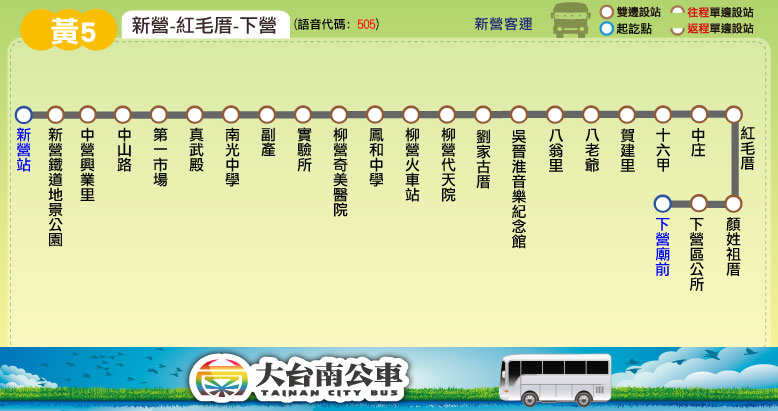
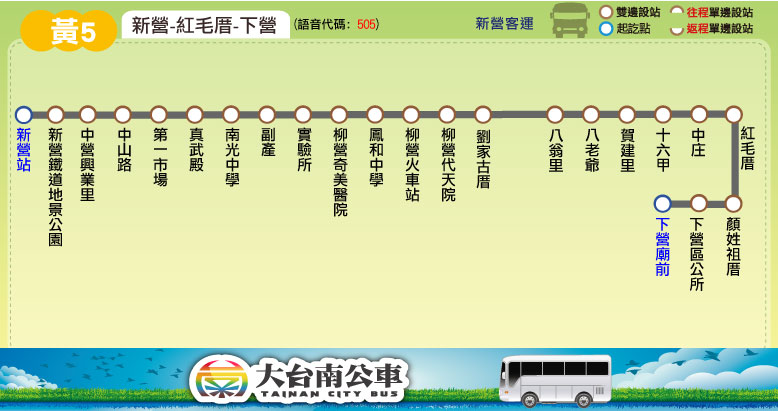
更新時刻表：黃5、黃11-2； 更新票價表：棕1； 新增站位：8041C(增「臺鐵正義站」)、黃11-2(增「岩坑」、「橫路」、「田寮子」)； 裁撤站位：黃5(裁撤「吳晉淮音樂紀念館」)

diff --git a/route/fare_and_time/yellow_5.js b/route/fare_and_time/yellow_5.js
@@ -3,7 +3,7 @@ yellow_5_interval_stop = [ // 2018.11.18 checked
 ["新營站","新營鐵道地景公園","中營興業里","中山路","第一市場","真武殿","南光中學"], // 新營
 ["副產","實驗所"], // 副產
 ["柳營奇美醫院","鳳和中學","柳營火車站","柳營代天院"], // 柳營火車站
-["劉家古厝","吳晉淮音樂紀念館","八翁里","八老爺"], // 八老爺
+["劉家古厝","八翁里","八老爺"], // 八老爺
 ["賀建里","十六甲","中庄"], // 中庄
 ["紅毛厝","顏姓祖厝","下營區公所","下營廟前"] // 下營
 ];
@@ -18,12 +18,17 @@ yellow_5_fare = [
 // format = [time at the start stop] or
 // [time, other] or
 // [time, start_stop, end_stop, other]
-yellow_5_main_stop_name = ["新營站","柳營<br />火車站","吳晉淮音<br />樂紀念館","八老爺","紅毛厝","下營<br />區公所","下營廟前"];
-yellow_5_main_stop_time_consume = [0, 14, 20, 24, 33, 35, 36];
-yellow_5_important_stop = [0, 1, 6]; // 新營站, 柳營火車站, 下營廟前
+yellow_5_main_stop_name = ["新營站","柳營<br />火車站","八老爺","紅毛厝","下營<br />區公所","下營廟前"];
+yellow_5_main_stop_time_consume = [0, 13, 17, 26, 28, 30];
+yellow_5_important_stop = [0, 1, 5]; // 新營站, 柳營火車站, 下營廟前
 var Sinying = 0; // 新營站
 var TRA_Liouying = 1; // 柳營火車站
-var Balaoye = 3; // 八老爺
-var Hongmaocuo = 4; // 紅毛厝
-yellow_5_time_go = [["08:20"],["09:30",['L']],["12:10"],["15:50",['L']],["17:15",['H']]];
-yellow_5_time_return = [["09:05",[[Hongmaocuo,1,Sinying,-2]]],["12:30",['L',[Hongmaocuo,1,Sinying,-2]]],["12:55",[[Hongmaocuo,1,Balaoye,-1,Sinying,-1]]],["16:35",['L',[Hongmaocuo,1,Sinying,3]]],["18:00",['H',[Hongmaocuo,1,Balaoye,-2]]]];
+var Balaoye = 2; // 八老爺
+var Hongmaocuo = 3; // 紅毛厝
+var Siaying_District_office = 4; // 下營區公所
+yellow_5_time_go = [["08:20"],["09:30",['L']],["12:15"],["16:00",['L']],["17:15",['H']]];
+yellow_5_time_return = [["09:00",[[Siaying_District_office,-1,Hongmaocuo,1,Balaoye,-1,TRA_Liouying,1]]],
+["12:30",['L',[Siaying_District_office,-1,Hongmaocuo,1,Balaoye,-1,TRA_Liouying,1]]],
+["13:00",[[Siaying_District_office,-1,Hongmaocuo,1,Balaoye,-1,TRA_Liouying,1]]],
+["16:35",['L',[Siaying_District_office,-1,Hongmaocuo,1,Balaoye,-1,TRA_Liouying,1,Sinying,5]]],
+["18:00",['H',[Siaying_District_office,-1,Hongmaocuo,1,Balaoye,-2,Sinying,2]]]];

diff --git a/route/fare_and_time/yellow_11_2.js b/route/fare_and_time/yellow_11_2.js
@@ -7,9 +7,9 @@ yellow_11_2_interval_stop = [
 ["番子嶺","開門橋","萬應公廟","番子厝"], // 番子嶺
 ["斑芝花坑","斑花橋","柿子寮"], // 斑芝花坑
 ["三塊厝","嶺南里路口","西東原","東原派出所","雙溪庄"], // 西東原
-["北大洋","大洋","後坑頭","南勢里活動中心"], // 北大洋
-["南勢庄"], // 南勢庄
-["碧蓮寺"], // 碧蓮寺
+["北大洋","田寮子","大洋","後坑頭","南勢里活動中心"], // 北大洋
+["南勢庄","岩坑"], // 南勢庄
+["碧蓮寺","橫路"], // 碧蓮寺
 ["橫路休息站"] // 橫路休息站
 ];
 yellow_11_2_fare = [
@@ -26,15 +26,15 @@ yellow_11_2_fare = [
 [74,63,56,53,50,40,31,26,26,26,26]
 ];
 yellow_11_2_main_stop_name = ["白河站","東山","西東原","南勢里<br />活動中心",'<span style="font-family:新細明體;">碧蓮寺</span>',"橫路<br />休息站"];
-yellow_11_2_main_stop_time_consume = [0, 5, 19, 25, 31, 35];
+yellow_11_2_main_stop_time_consume = [0, 5, 19, 26, 33, 37];
 yellow_11_2_important_stop = [0, 1, 5]; // 白河站河, 東山, 橫路休息站
 var Baihe = 0; // 白河站
 var Dongshan = 1; // 東山
 var West_Dongyuan = 2; // 西東原
 var Nanshih_Village = 3; // 南勢里活動中心
 var Bilian_Temple = 4; // 碧蓮寺
-yellow_11_2_time_go = [["06:20"],["09:00"],["14:40"],["16:45"]];
-yellow_11_2_time_return = [["07:00",[[Bilian_Temple,-1,Nanshih_Village,-1,Dongshan,1,Baihe,1]]],
-["09:40",[[Bilian_Temple,-1,Nanshih_Village,-1,Dongshan,1,Baihe,1]]],
-["15:20",[[Bilian_Temple,-1,Nanshih_Village,-1,Dongshan,1,Baihe,1]]],
-["17:25",[[Bilian_Temple,-1,Nanshih_Village,-1,Dongshan,1,Baihe,1]]]];
+yellow_11_2_time_go = [["06:20"],["08:40"],["14:40"],["16:45"]];
+yellow_11_2_time_return = [["07:05",[[Bilian_Temple,-1,Nanshih_Village,-1,Dongshan,1,Baihe,1]]],
+["09:20",[[Bilian_Temple,-1,Nanshih_Village,-1,Baihe,1]]],
+["15:20",[[Bilian_Temple,-1,Nanshih_Village,-1,Baihe,1]]],
+["17:30",[[Bilian_Temple,-1,Nanshih_Village,-1,Dongshan,1,Baihe,1]]]];

diff --git a/route/fare_and_time/brown_1.js b/route/fare_and_time/brown_1.js
@@ -1,4 +1,4 @@
-brown_1_interval_name = ["新營","茄苳腳","鹽水","後寮","番子寮","孫厝寮","羊稠厝","頂洲","紅茄萣","新芳里","紅茄里","北紅茄萣","新渡子頭","渡子頭","南鯤鯓","雙春","雙春濱海<br />遊憩區"];
+brown_1_interval_name = ["新營","茄苳腳","鹽水","後寮","番子寮","孫厝寮","羊稠厝","頂洲","紅茄萣","新芳里","紅茄里","北紅茄萣","新渡子頭","渡子頭","南鯤鯓","北門","北門國中","雙春","雙春濱海<br />遊憩區"];
 brown_1_interval_stop = [ // 2017.12.08 checked
 ["新營站","中營興業里","第一市場","中山路","圓環(第一銀行)","新營醫院","齊普","新營魚市場","太子路口","統聯客運"], // 新營
 ["茄苳腳","新營工業區","明達中學"], // 茄苳腳
@@ -14,9 +14,11 @@ brown_1_interval_stop = [ // 2017.12.08 checked
 ["北紅茄萣"], // 北紅茄萣
 ["新渡仔頭"], // 新渡子頭
 ["渡仔頭","新圍"], // 渡子頭
-["南鯤鯓"], // 南鯤鯓
+["南鯤鯓","蚵寮","小蚵寮"], // 南鯤鯓
+["北門橋頭","北門","北門區公所"], // 北門
+["西山","北門國中"], // 北門國中
 ["橋北","永春","雙春"], // 雙春
-["雙春濱海休憩園區","蚵寮","小蚵寮","北門橋頭","北門","北門區公所","西山","北門國中"] // 雙春濱海遊憩區
+["雙春濱海休憩園區"] // 雙春濱海遊憩區
 ];
 brown_1_fare = [
 [26],
@@ -34,8 +36,10 @@ brown_1_fare = [
 [77,57,48,39,33,27,26,26,26,26,26,26,26],
 [81,61,53,43,37,31,27,26,26,26,26,26,26,26],
 [92,72,63,54,47,42,38,33,26,26,26,26,26,26,26],
-[101,81,72,63,56,51,47,42,37,35,32,29,26,26,26,26],
-[109,89,80,71,64,59,55,50,45,43,40,37,26,26,26,26,26]
+[101,82,72,63,57,52,48,42,38,35,33,30,26,26,26,26],
+[108,88,78,70,63,58,54,48,44,42,39,36,31,26,26,26,26],
+[101,81,72,63,56,51,47,42,37,35,32,29,26,26,26,-1,-1,26],
+[109,89,80,71,64,59,55,50,45,43,40,37,26,26,26,-1,-1,26,26]
 ];
 // format = [time at the start stop] or
 // [time, other] or

diff --git a/route/fare_and_time/highway_bus_8041C.js b/route/fare_and_time/highway_bus_8041C.js
@@ -1,6 +1,6 @@
 highway_bus_8041C_interval_name = ["鳳山","長庚<br />醫院","高雄應用<br />科技大學","民族路","榮總","楠梓陸橋","橋頭","岡山<br />區公所","北嶺墘","路竹","大湖","嘉南大學","湖內","白砂崙","茄萣站"];
 highway_bus_8041C_interval_stop = [
-["鳳山站","捷運鳳山站","西門","公路之家","鳳山高中","鳳山行政中心","覺民路口"], // 鳳山
+["鳳山站","捷運鳳山站","西門","公路之家","鳳山高中","鳳山行政中心","臺鐵正義站","覺民路口"], // 鳳山
 ["澄清路","大華里","正修科大","長庚復健大樓","文山高中","長庚醫院","正修科大","大華里"], // 長庚醫院
 ["正德佛堂","文明巷","本館路口","大豐一路口","高雄科大(建工)","高雄工職","大順路口","建工路"], // 高雄應用科技大學
 ["民族派出所","灣仔內","隆峰寺","民族大順路口","民族路(明誠路口)"], // 民族路
